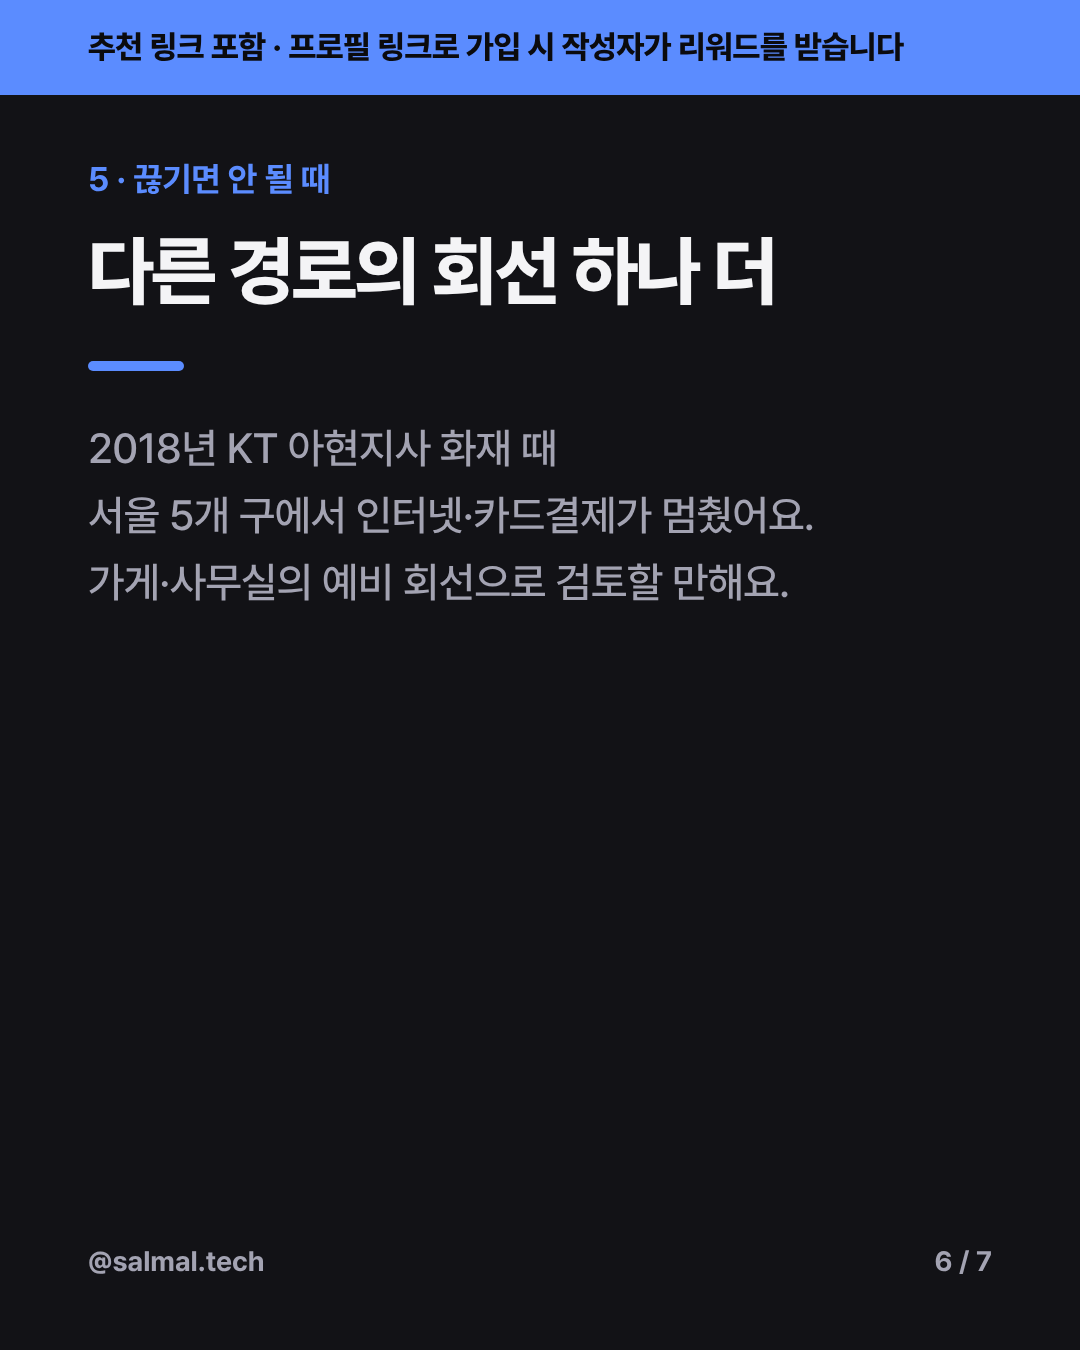
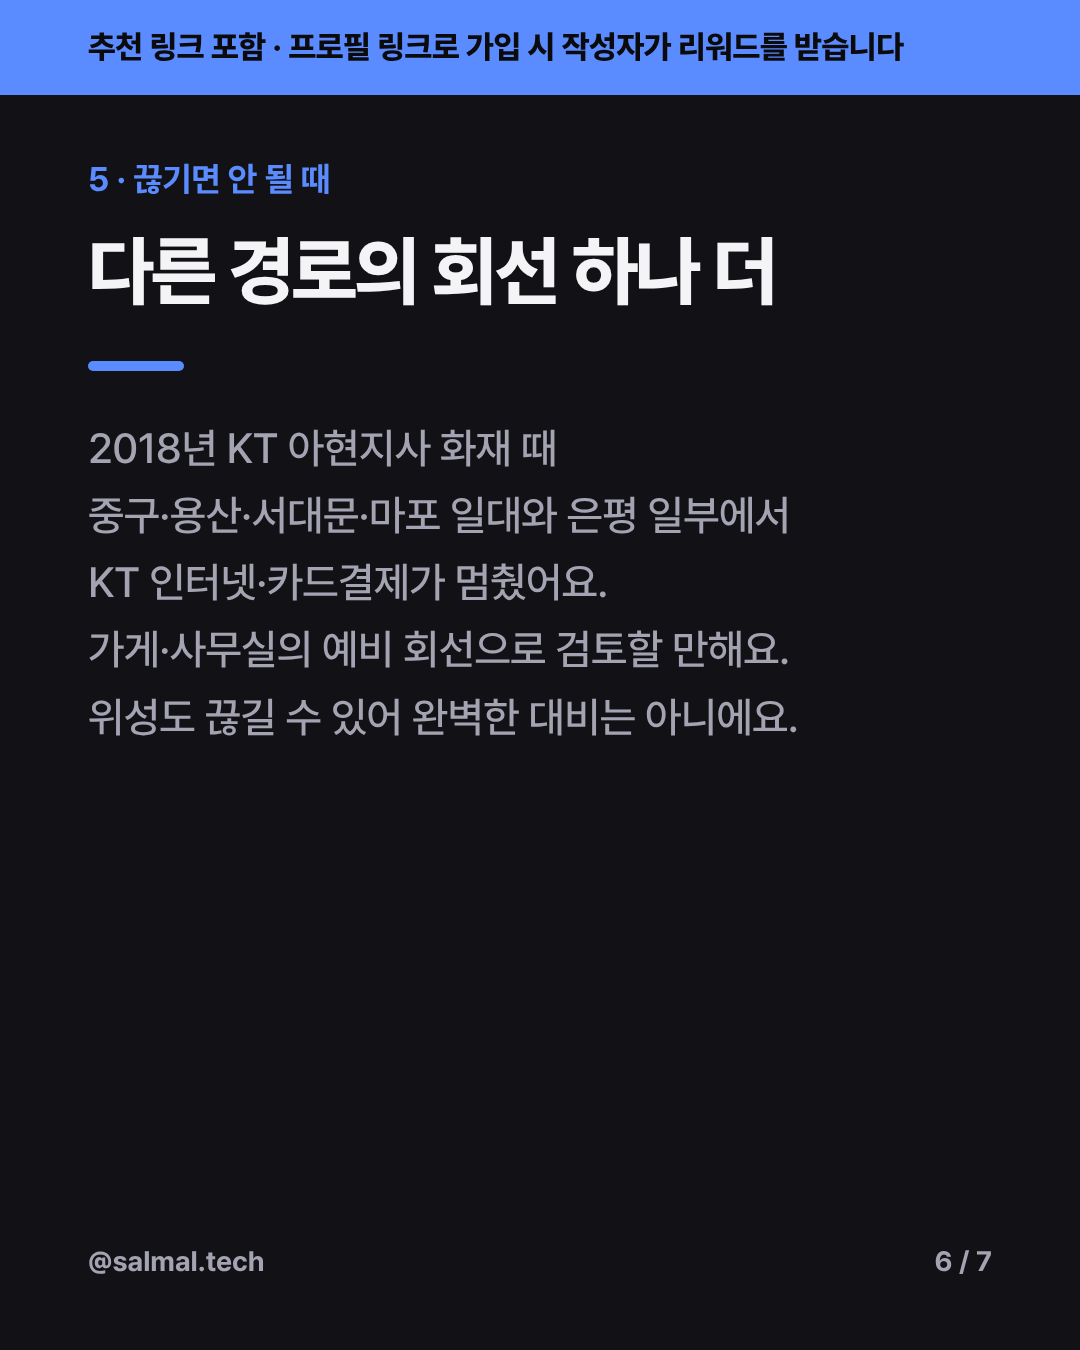
제작 2026-11-20: 활용 예시 검수 보류 사항 반영
현대글로비스를 '45척 도입, 순차 설치 중'으로, 아현 화재 범위를 'KT 회선, 일대·은평 일부'로,
제주 사업을 '2026.03 보도 기준, 연근해 어선'으로 고쳤다. 회사·지자체 사례와 개인 가입을 구분하는
문장과 '위성도 완벽한 대비는 아님'을 넣고, 이모지를 번호로 바꿨다. X 표시 문구와 존댓말을 고쳤다.

Claude-Session: https://claude.ai/code/session_015tx819vuc4pyFPfp6DvgFx

Changed region(s): [[0.0611, 0.3422, 0.7639, 0.56]]

diff --git a/content/20261120-01/review.md b/content/20261120-01/review.md
@@ -1,0 +1,90 @@
+# 검수: 20261120-01 스타링크, 실제로 어디에 쓰일까: 필요한 곳 5가지
+
+- 검수일: 2026-11-20 (1차)
+- 대상 파일: brief.md, instagram.md, threads.md, x.md, cards.json, cards/01~07.png(7장 모두 열어 확인, 글자가 cards.json과 같음)
+- 판정: **held**
+- 승인 방식이 `auto`라서 통과하면 사람이 보지 않고 나간다. 아래 필수 수정 6건을 반영한 뒤 재검수한다.
+- 검수 중 추가 웹 검색(요약 수준, 원문 미열람)으로 브리프 사실 3건을 다시 대조했다. 그중 2건에서 초안 표현이 보도보다 넓었다.
+
+## 필수 수정 요약
+
+1. 현대글로비스: "설치했다"를 "도입, 순차 설치 중(보도)"으로 바꾼다. 캡션, 카드 2, 스레드, X.
+2. 아현 화재: "서울 5개 구에서 인터넷·카드결제가 멈췄어요"를 KT 회선 장애로 한정한다. 캡션, 카드 6.
+3. 제주 사업: "하고 있어요"(현재형)를 2026년 3월 보도 기준 사업으로 고치고, 대상(연근해 어선 소유자)을 밝힌다. 캡션, 카드 3, 스레드.
+4. 기업·지자체 사례와 개인 가입의 구분: "회사·지자체 사례이고 개인 요금제·해상 사용 조건은 따로 확인하세요" 같은 한 줄을 넣는다. 캡션, 카드(2·3 또는 7), 스레드.
+5. X 표시 첫 줄에 "스타링크"와 "프로필 링크"를 넣는다.
+6. X의 "대체용은 아님."을 존댓말로 바꾼다.
+
+브리프의 근거 표도 1~3에 맞게 고친다.
+
+## 1. 광고 표시: 수정 필요(X)
+
+- 인스타그램 캡션 첫 줄: "[추천 링크 포함] 프로필 링크는 스타링크 추천 링크예요. 가입하시면 제가 리워드를 받습니다." 문제 없음.
+- 스레드 첫 줄: "[추천 링크 포함] 프로필 링크는 스타링크 추천 링크예요(가입 시 작성자 리워드)." 문제 없음.
+- 카드 7장 모두 상단 띠에 "추천 링크 포함 · 프로필 링크로 가입 시 작성자가 리워드를 받습니다"가 있다. 문제 없음.
+- **X 첫 줄: "[추천 링크 포함, 가입 시 작성자 리워드]"(필수 수정 5).** 어느 서비스의 추천 링크인지, 링크가 어디 있는지가 빠졌다. X 본문에는 링크가 없으므로 "추천 링크 포함"만으로는 무엇을 가리키는지 알 수 없다. 고정 게시물(20261118-07)의 X 표시와 `campaign.json`의 `disclosure`는 모두 "스타링크"를 밝힌다.
+  - 고칠 예: "[추천 링크 포함] 프로필 링크는 스타링크 추천 링크(가입 시 작성자 리워드)."
+  - 이 문구에 수정 6까지 반영하면 X 가중치 기준 약 272자다. 한도 280자 안이지만 여유가 적다. 고친 뒤 `npm run check`로 확인한다.
+
+## 2. 사실: 수정 필요
+
+추가 검색 결과(아래 출처)와 브리프를 대조했다.
+
+- **현대글로비스(필수 수정 1).** 2026년 1월 보도는 자체 보유 선박 45척에 스타링크를 "도입"하고, 국내에 입항하는 선박부터 "순차 설치" 중이라고 전한다. 설치를 끝냈다는 내용은 찾지 못했다. 초안은 "45척 … 설치했다는 보도"(캡션), "45척 … 설치(보도)"(카드 2), "45척 설치(보도)"(스레드), "45척 설치 보도"(X)라고 써서 완료된 것처럼 읽힌다.
+  - 고칠 예: "현대글로비스는 자체 선박 45척에 도입해 순차 설치 중(2026.01 보도)". 47척이라는 전체 수는 이번 검색에서 다시 확인하지 못했다. 브리프 출처에 있으면 써도 되지만, 확실하지 않으면 빼는 쪽이 안전하다.
+  - 대한해운: 운영 선박 38척 전부 개통을 마쳤다는 보도(2026.01.16 발표)와 맞는다. 문제 없음.
+  - "선원 가족 연락, 원격 의료, 온라인 교육": 브리프에는 "쓸 수 있음"으로 되어 있다. 카드 2는 목록형이라 단정으로 읽히지는 않는다. 문제 없음.
+- **아현 화재 범위(필수 수정 2).** 보도는 중구·용산구·서대문구·마포구 일대와 은평구·고양시 일부의 통신 장애, 그리고 KT 망에 연결된 카드 단말기·POS·ATM 장애다. "서울 5개 구에서 인터넷·카드결제가 멈췄어요"는 다섯 구 전체가, 모든 통신사가 멈춘 것처럼 읽힌다. 은평은 일부였고 다른 통신사 회선은 해당되지 않았다.
+  - 고칠 예: "2018년 KT 아현지사 화재 때 서울 서대문·마포·용산·중구 일대와 은평 일부에서 KT 인터넷·전화·카드결제에 장애가 났어요." 또는 "서울 5개 구 일대 KT 회선 장애".
+  - "5개 구"라는 숫자 자체는 KT·소상공인 피해 접수(5개 구청 협의) 보도와 맞는다. 범위를 "일대", "KT"로 한정하면 써도 된다.
+  - 일주일 복구 수치는 쓰지 않았다. 스타링크가 그때 쓰였다는 주장도 없다. 브리프 지시대로다.
+- **제주 어선 사업(필수 수정 3).** 출처는 2026년 3월 25일 보도 한 건이다. 사업이 지금(11월)도 진행 중인지는 확인되지 않았다. 캡션의 "올해 … 사업을 하고 있어요"와 카드 3의 "사업을 하고 있어요"는 현재 진행을 단정한다. 또 보도에 따르면 대상은 연 60일 이상 조업하고 일정 판매 실적이 있는 연근해 어선 소유자다. 대상이 빠지면, 추천 링크가 걸린 글에서 "스타링크를 사면 지원받을 수 있다"는 오해를 살 수 있다.
+  - 고칠 예: "제주도는 2026년 연근해 어선 소유자에게 저궤도 위성통신 장비(원웹·스타링크 등)를 지원하는 사업을 냈어요(2026.03 보도). 총사업비 9억 2,436만 원."
+  - 총사업비 9억 2,436만 원과 원웹·스타링크 병기는 보도와 맞는다.
+- **미니·로밍.** "약 1.1kg, 공유기 내장", "이동하며 쓰려면 로밍 요금제", "100GB 월 7만 7천 원부터(2026.11 기준)"는 브리프 출처와 맞는다. 문제 없음.
+- **미니의 주거용 요금제 가능 여부.** 어느 채널에도 이 주장이 없다. 카드 4의 "주소마다 가능한 요금제가 달라요"는 집 인터넷 일반에 대한 말이고, 미니와 주거용 요금제를 묶지 않는다. 문제 없음.
+- **할인 마감.** "신규, 보도 기준 11/28까지"가 캡션, 스레드, X, 카드 7에 있다. 금액은 쓰지 않았다(`banned_topics` 준수). 앞선 소재(20261118-01·03·04)와 같은 표현이다. `publish_by: 2026-11-27`가 설정돼 있다. 문제 없음.
+  - 권고: 캡션에만 있는 "요금제와 할인가는 결제 화면에서 꼭 확인하세요"를 스레드와 카드 7에도 짧게 넣는다.
+- **카드 출처(권고).** 카드 7 출처 줄에 미니 무게의 출처(DishyTech, USMobile)가 없다. 아현 화재는 브리프상 다음뉴스(2018.11.25)와 전자신문(2018.11.27)인데 카드에는 전자신문만 있다. 수정 2를 반영하면 실제 문장을 뒷받침하는 기사를 브리프와 카드에 맞춰 적는다. "네이트"는 포털이므로 가능하면 원래 언론사 이름(예: 전자신문, 경향신문, 이데일리)으로 바꾼다.
+
+## 3. 저작권과 초상권: 문제 없음
+
+텍스트만으로 만든 카드다. 선박 사진, 로고, 타인의 이미지가 없다.
+
+## 4. 조작: 수정 필요(필수 수정 4)
+
+후기인 척하거나 다른 사람·기관인 척하는 문장은 없다. 회사와 지자체가 이 계정이나 추천 링크를 지지한다고 말하지도 않는다. 선박 사례에는 "(보도)", "보도가 있어요"가 붙어 있다.
+
+하지만 구성이 문제다. 제목이 "진짜 필요한 곳", 첫 두 사례가 대기업 선대와 지자체 사업이고, 첫 줄과 마지막이 프로필의 추천 링크다. 브리프는 "우리 아버지 배에 필요하겠다"를 판단하게 하는 것이 목표라고 적었다. 이렇게 되면 읽는 사람이 "회사·도청이 쓰는 그것을 이 링크로 개인이 가입하면 된다"로 받아들일 수 있다. 해운사와 지자체 사업에 쓰인 요금제·장비·계약 경로가 개인 가입(가정용·로밍)과 같은지는 브리프에 근거가 없다. 개인이 배에서 로밍 요금제로 쓸 때의 조건도 확인되지 않았다. "(보도)"는 사실의 출처를 밝힐 뿐, 이 차이를 알려 주지 않는다.
+
+- 고칠 방법: 새 사실을 주장하지 말고 구분만 밝힌다. 예: "1·2는 회사·지자체 사례예요. 개인 가입 요금제와 배 위 사용 조건은 따로 확인하세요." 캡션, 카드(2·3 아래 또는 7), 스레드에 넣는다. X는 글자 수가 빠듯하므로 선박 사례를 빼거나 "(기업 사례 보도)"로 줄이는 방법을 권한다.
+
+## 5. 채널 규정: 수정 필요(X 표시, 위 1 참고)
+
+- 인스타그램 해시태그 5개, 스레드와 X는 0개. 문제 없음.
+- 링크: 모든 채널이 프로필 링크만 쓰고 본문에는 링크가 없다. 문제 없음.
+- X 길이: 가중치(한글 2, 그 밖의 문자 1)로 직접 세면 현재 본문은 약 227자로 280자 안이다. 이 환경에는 Bash가 없어 `npm run check`를 실행하지 못했다. 수정한 뒤 실행해야 한다.
+- 이모지: 인스타그램 캡션에 항목 머리표로 5개(🚢🎣🏡🏕⚡)를 썼다. 금지 규칙은 없고 과장하는 용도도 아니어서 막지 않는다. 다만 이 계정의 이전 게시물에는 이모지가 없었다. 계정 톤을 맞추려면 "1·2·3" 번호나 "·"로 바꾸기를 권한다(필수 아님).
+- 운영 주의: X 핸들이 `accounts.json`에서 아직 null이다. X 계정이 연결되기 전에는 X를 예약할 수 없다(채널 매니저 확인). 유료 홍보와 남의 단톡방·게시판 공유는 하지 않는다.
+
+## 6. AI 표시: 해당 없음
+
+생성한 실사형 이미지나 영상이 없다.
+
+## 7. 위험 주제: 문제 없음(2·4의 수정 전제)
+
+비방과 혐오가 없다. 재난 때 위성이 반드시 된다는 단정도 없다. "검토할 만해요", "있으면 든든합니다"는 보장하는 말이 아니다. 확인되지 않은 할인·리워드 금액도 없다.
+
+- 권고: 다섯 번째 항목은 스타링크 소개 안에 있어서 "다른 경로의 회선 = 스타링크"로 읽힌다. "위성도 날씨나 장애로 끊길 수 있어서 완벽한 대비는 아니에요" 같은 한 줄을 넣으면 톤의 "아쉬운 점도 같이"에 맞는다. 다른 통신사 유선 회선도 다른 경로가 될 수 있다는 점을 밝혀도 좋다. 수치는 넣지 않는다.
+
+## 8. 톤: 수정 필요(X)
+
+- 캡션, 스레드, 카드는 친근한 존댓말이고 "도시 집 인터넷 대체용은 아니에요"로 한계를 밝힌다.
+- **X(필수 수정 6):** "도시 집 인터넷 대체용은 아님."은 명사형 종결이다. `tone`의 "친근한 존댓말"에 맞지 않는다. "아니에요."로 바꾼다.
+
+## 검수 중 대조한 출처(웹 검색 요약, 원문 미열람)
+
+- 현대글로비스 45척 도입·순차 설치: https://m.etnews.com/20260119000310 , https://www.hankyung.com/article/2026011998411 , https://www.koreaherald.com/article/10658323
+- 대한해운 38척 개통 완료: https://www.khan.co.kr/article/202601161051021/
+- 제주 어선 위성통신 장비 지원사업(대상, 총사업비): https://v.daum.net/v/20260325171004817
+- KT 아현지사 화재 범위(중구·용산·서대문·마포 일대, 은평·고양 일부, KT 망 카드결제 장애): https://view.asiae.co.kr/article/2018112413584172694 , https://www.ajunews.com/view/20181126093254366 , https://biz.sbs.co.kr/amp/article/10000922441

diff --git a/content/20261120-01/brief.md b/content/20261120-01/brief.md
@@ -16,18 +16,18 @@
 
 ## 대상과의 연결
 
-필요성을 말하되 과장하지 않는다. "도시 집 인터넷 대체용은 아니다"를 함께 말해 신뢰를 지킨다.
+필요성을 말하되 과장하지 않는다. 선박·어선은 회사·지자체 사례이고 개인 가입과 다르다고 밝힌다. 위성도 완벽한 백업은 아니라고 쓴다. "도시 집 인터넷 대체용은 아니다"를 함께 말해 신뢰를 지킨다.
 추천 표시는 첫 줄과 카드 상단에 둔다.
 
 ## 근거
 
 | 사실 | 출처 |
 |---|---|
-| 현대글로비스: 자체 선박 47척 중 45척에 스타링크 설치(2026년 1월 보도) | 헤럴드경제, 이투데이, 네이트뉴스(2026.01.19~20) |
-| 대한해운: 운영 선박 38척 전부 설치 완료 | 네이트뉴스(2026.01.20) |
+| 현대글로비스: 자체 선박 45척에 스타링크 도입, 국내 입항 선박부터 순차 설치(2026년 1월 보도). 47척 전체 수는 재확인 못 해 쓰지 않음 | 전자신문(2026.01.19), 한국경제, Korea Herald |
+| 대한해운: 운영 선박 38척 설치 완료 | 경향신문(2026.01.16) |
 | 선원이 가족 연락, 원격 의료, 온라인 교육에 쓸 수 있음 | 같은 보도 |
-| 제주도 '2026년 위성통신 활용 어선안전관리 체계 구축 장비 지원사업', 원웹·스타링크 등 저궤도 위성통신 장비 지원, 총사업비 9억 2,436만 원 | 네이트뉴스(2026.03.25) |
-| 2018.11.24 KT 아현지사 화재: 서울 서대문·마포·용산·은평·중구 일대 인터넷·전화·카드결제 장애, 완전 복구까지 약 일주일 전망 보도 | 다음뉴스(2018.11.25), 전자신문(2018.11.27) |
+| 제주도 '2026년 위성통신 활용 어선안전관리 체계 구축 장비 지원사업', 연근해 어선 대상, 원웹·스타링크 등 저궤도 위성통신 장비 지원, 총사업비 9억 2,436만 원. 진행 상태는 2026.03 보도 기준으로만 씀 | 다음뉴스(2026.03.25) |
+| 2018.11.24 KT 아현지사 화재: 중구·용산·서대문·마포 일대와 은평·고양 일부의 KT 회선(인터넷·전화·카드결제) 장애 | 아시아경제(2018.11.24), 아주경제(2018.11.26), SBS Biz |
 | 미니: 약 1.1kg, 공유기 내장 | DishyTech, USMobile(앞선 소재 02 근거) |
 | 이동하며 쓰려면 로밍 요금제. 공식 시작가 로밍 100GB 월 77,000원, 무제한 월 153,000원(2026.11 확인) | make2t 미니 가격·요금제 정리(2026.11) |
 | 할인 보도 기준 11/28까지(신규) | 아시아타임즈(2026.11.04) |

diff --git a/content/20261120-01/instagram.md b/content/20261120-01/instagram.md
@@ -9,13 +9,13 @@
 스타링크, 도시 집 인터넷 대신 쓰는 물건은 아니에요.
 진짜 필요한 곳은 따로 있습니다.
 
-🚢 바다 위: 현대글로비스는 자체 선박 47척 중 45척, 대한해운은 38척 전부에 설치했다는 보도가 있어요.
-🎣 어선: 제주도는 올해 어선에 저궤도 위성통신 장비를 지원하는 사업을 하고 있어요.
-🏡 유선이 안 닿는 곳: 전원주택, 농막, 산간, 섬.
-🏕 이동하며 쓸 때: 캠핑, 차박, 낚시. 미니(약 1.1kg)에 로밍 요금제로 써요.
-⚡ 유선이 끊길 때: 2018년 KT 아현지사 화재 때 서울 5개 구에서 인터넷·카드결제가 멈췄죠. 끊기면 안 되는 곳엔 다른 경로의 회선이 하나 더 있으면 든든합니다.
+1. 바다 위: 현대글로비스는 자체 선박 45척에 도입해 순차 설치 중, 대한해운은 38척에 설치했다는 2026년 1월 보도가 있어요.
+2. 어선: 2026년 3월 보도에 따르면 제주도가 연근해 어선에 저궤도 위성통신 장비를 지원하는 사업을 추진했어요.
+3. 유선이 안 닿는 곳: 전원주택, 농막, 산간, 섬.
+4. 이동하며 쓸 때: 캠핑, 차박, 낚시. 미니(약 1.1kg)에 로밍 요금제로 써요.
+5. 유선이 끊길 때: 2018년 KT 아현지사 화재 때 중구·용산·서대문·마포 일대와 은평 일부에서 KT 인터넷·카드결제가 멈췄어요. 끊기면 안 되는 곳엔 다른 경로의 회선이 하나 더 있으면 든든합니다. 위성도 끊길 수 있어 완벽한 대비는 아니에요.
 
-내 주변에 해당되는 분이 있다면 보내 주세요.
+1·2번은 회사·지자체 사례예요. 개인 요금제와 배 위 사용 조건은 따로 확인하세요.
 가입 할인은 신규 가입, 보도 기준 11/28까지예요. 요금제와 할인가는 결제 화면에서 꼭 확인하세요.
 
 #스타링크 #위성인터넷 #전원주택 #캠핑 #낚시

diff --git a/content/20261120-01/threads.md b/content/20261120-01/threads.md
@@ -2,11 +2,12 @@
 
 [추천 링크 포함] 프로필 링크는 스타링크 추천 링크예요(가입 시 작성자 리워드).
 
-스타링크가 실제로 필요한 곳
-· 바다: 현대글로비스 선박 45척, 대한해운 38척 설치(보도)
-· 어선: 제주도 저궤도 위성통신 장비 지원사업
+스타링크가 실제로 쓰이는 곳
+· 바다: 현대글로비스 45척 도입·순차 설치, 대한해운 38척 설치(2026.01 보도)
+· 어선: 제주도 연근해 어선 위성통신 장비 지원사업(2026.03 보도)
 · 유선이 안 닿는 전원주택·농막·섬
 · 캠핑·차박·낚시(미니 + 로밍 요금제)
-· 유선이 끊기면 안 되는 곳의 예비 회선
+· 유선이 끊기면 안 되는 곳의 예비 회선(위성도 완벽하진 않아요)
 
-도시 집 인터넷 대체용은 아니에요. 할인은 신규, 보도 기준 11/28까지.
+선박·어선은 회사·지자체 사례라 개인 요금제 조건은 따로 확인하세요.
+도시 집 인터넷 대체용은 아니에요. 할인은 신규, 보도 기준 11/28까지. 결제 화면에서 확인하세요.

diff --git a/content/20261120-01/x.md b/content/20261120-01/x.md
@@ -1,8 +1,8 @@
 # 본문
 
-[추천 링크 포함, 가입 시 작성자 리워드]
+[추천 링크 포함] 프로필 링크는 스타링크 추천 링크예요(가입 시 작성자 리워드).
 
-스타링크가 실제로 필요한 곳
-선박(현대글로비스 45척 설치 보도), 어선, 유선 없는 전원주택·섬, 캠핑·차박(미니+로밍), 예비 회선.
-도시 집 인터넷 대체용은 아님.
-할인은 신규, 보도 기준 11/28까지.
+스타링크가 필요한 곳
+유선 없는 전원주택·섬, 캠핑·차박(미니+로밍 요금제), 끊기면 안 되는 곳의 예비 회선.
+도시 집 인터넷 대체용은 아니에요.
+할인은 신규, 보도 기준 11/28까지예요.
